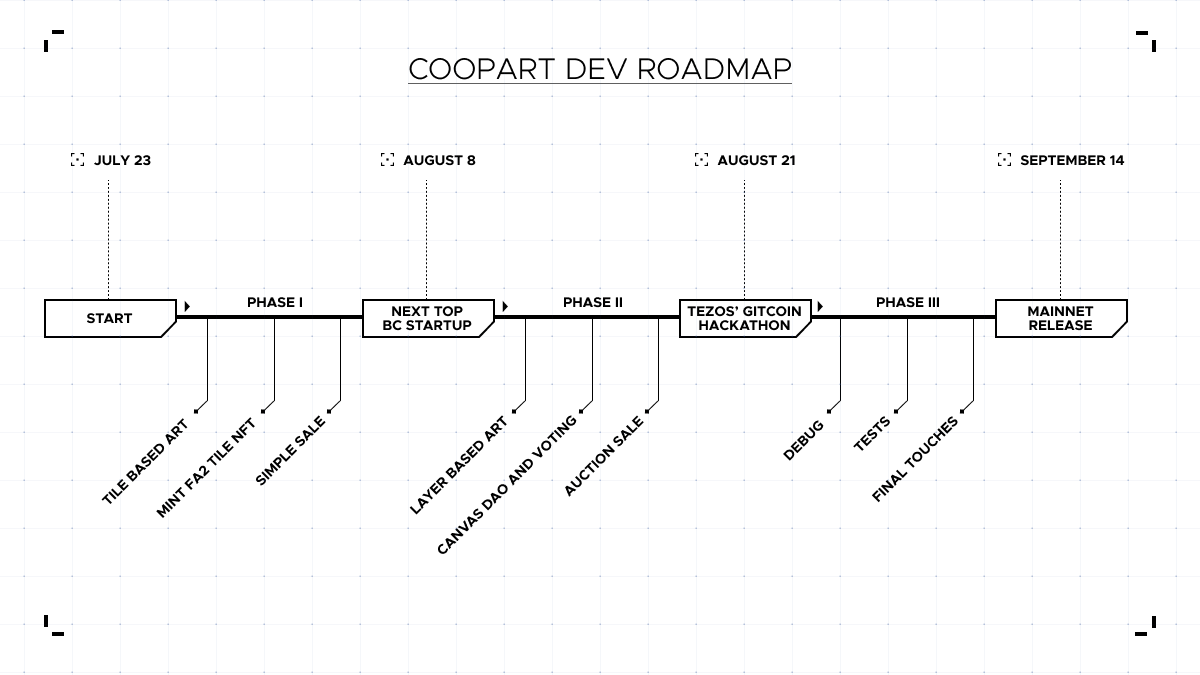
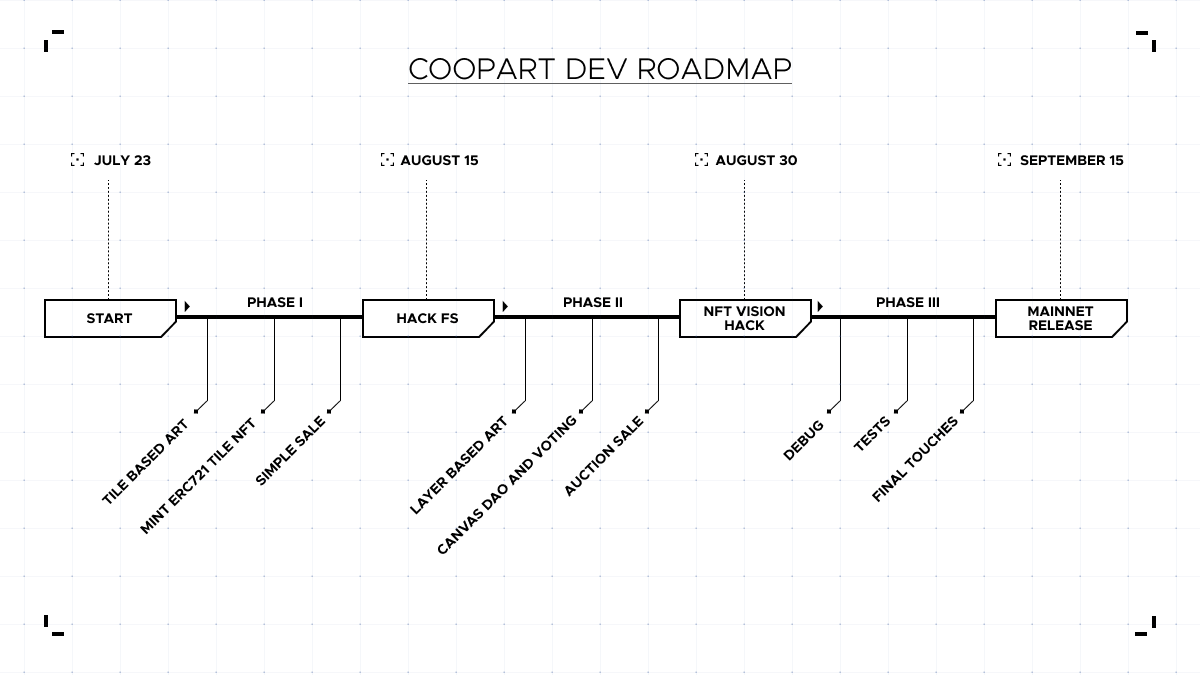
Mint examples

diff --git a/src/contracts/scripts/mintExamples.js b/src/contracts/scripts/mintExamples.js
@@ -1,8 +1,29 @@
 const hre = require("hardhat");
 
-import nfts from './nfts'
-
 const contractAddress = `0xaa71521B33f97CF7466519025BC6d60F55B9dD44`
+
+const tokenUris = [
+//horse
+// 'ipfs://QmWsM6Xa6DCfS2MvvMNdAwPMuY8iBmJ66NTHoyLVdGC4RR',
+// 'ipfs://QmVZZHjGUKZLXbr6FrVXoqPpju9P1RR4rnZEtrv8ZGpagL',
+// 'ipfs://QmavnC9Q3TLUYGxXgr2yBiBL88pzGyRcr9QixJiAR4kdJ2',
+//rage
+'ipfs://QmYqWC1DaxFnRFDmBnvjUXRH69pyknS9N1j8Krd6ZxkgEQ',
+'ipfs://QmbE4i2efrK8dEJ5tY9CRS2L6irpjJE68b3rme9p6yPZcg',
+'ipfs://QmWYujjetgxNrqKJV3ezt7TGCiBz8UkTvFn7YEJs9Eotjr',
+'ipfs://QmWECYF6qa8nWoDYrZ8nv2AbWKPiMUzRX3A4gPzPSg67Qt',
+'ipfs://QmUmZ238hS527phJGh14VTi9mE6kJMXHk7uJHn8fNYe7zs',
+'ipfs://QmPynaeabVtRsEYKyirgQajg5tNnLDjFPf1qJzVtiDrctN',
+'ipfs://QmWj1HDMgeTBxqJe1gYcyQJDgxisopLyqYK7KSb4Wuyp9b',
+// 'ipfs://QmTc2cGt1fCQktqrtKJwLGZtqgCFFAJu4x5TLy7L7A6qFV',
+//comic
+'ipfs://Qmf6VuVFVR9ZErWBDVYRAhXSsNBT2Nh46mcxKh3eHNqM8D',
+'ipfs://Qmf6VuVFVR9ZErWBDVYRAhXSsNBT2Nh46mcxKh3eHNqM8D',
+'ipfs://QmYroeNndoo1N48s55Yq19HD6tECncCDtMWhnTEB3Xq9Vf',
+'ipfs://QmdQNBdG7vMpkp47Ewi86ZCBxrobL6vxEP8zy6JWshfLLg',
+'ipfs://QmQF2iBHSx4enxUEJRiAaHxJCVQn46SgB5qzfcSRTWg5ih',
+'ipfs://QmQF2iBHSx4enxUEJRiAaHxJCVQn46SgB5qzfcSRTWg5ih'
+]
 
 //takes array of thunks
 //thunks are functions that return promises
@@ -17,18 +38,18 @@ function mapSeries(arr) {
   .then(() => results)
 }
 
-function thunkify(nft) {
+function thunkify(tokenUri) {
   return async () => {
     const [owner] = await hre.ethers.getSigners();
     const NFTContract = await hre.ethers.getContractAt("MyNFT", contractAddress);
-    const tx = await NFTContract.mint(owner.address, nft.cid);
+    const tx = await NFTContract.mint(owner.address, tokenUri);
     const receipt = await tx.wait();
-    console.log('Transaction mined: ', nft.name);
+    console.log('Transaction mined: ', tokenUri);
   }
 }
 
 async function main() {
-  const thunks = nfts.map((nft) => thunkify(nft))
+  const thunks = tokenUris.map((tokenUri) => thunkify(tokenUri))
   await mapSeries(thunks); //do the transactions serially to avoid `replacement fee too low` error
 }
 

diff --git a/src/frontend/src/pages/EditTiles/EditTiles.view.tsx b/src/frontend/src/pages/EditTiles/EditTiles.view.tsx
@@ -122,11 +122,14 @@ export const EditTilesView = ({
         tileWidth,
         tileHeight,
       }
+
       const uploadedJson = await client.add(Buffer.from(JSON.stringify(json)))
 
       const image = `https://ipfs.infura.io/ipfs/${uploadedImage.path}`
 
-      console.log('tokenUri', `https://ipfs.infura.io/ipfs/${uploadedJson.path}`)
+      const tokenUri = `ipfs://${uploadedJson.path}`
+
+      console.log('tokenUri', tokenUri)
 
       // const metadata = await client.store({
       //   name: 'Coopart Tile',
@@ -150,30 +153,25 @@ export const EditTilesView = ({
       setTiles([...newTiles.concat(tile), ...existingTiles])
 
       // Mint token
-      if (mintTransactionPending) {
-        alert.info('Cannot mint a new tile while the previous one is not minted...', { timeout: 10000 })
-      } else {
-        console.log(tile)
-        mintCallback({ tokenUri: uploadedJson.path })
-          .then((e) => {
-            setMintTransactionPendingCallback(true)
-            alert.info('Minting new tile...')
-            e.wait().then((e: any) => {
-              console.log('New tile minted')
-              alert.success('New tile minted', {
-                onOpen: () => {
-                  setMintTransactionPendingCallback(false)
-                },
-              })
-              return e
+      mintCallback({ tokenUri })
+        .then((e) => {
+          setMintTransactionPendingCallback(true)
+          alert.info('Minting new tile...')
+          e.wait().then((e: any) => {
+            console.log('New tile minted')
+            alert.success('New tile minted', {
+              onOpen: () => {
+                setMintTransactionPendingCallback(false)
+              },
             })
             return e
           })
-          .catch((e: any) => {
-            alert.show(e.message)
-            console.error(e)
-          })
-      }
+          return e
+        })
+        .catch((e: any) => {
+          alert.show(e.message)
+          console.error(e)
+        })
 
       setIsUploading(false)
     } catch (error) {

diff --git a/src/frontend/src/pages/EditTiles/EditTiles.controller.tsx b/src/frontend/src/pages/EditTiles/EditTiles.controller.tsx
@@ -48,7 +48,7 @@ export const EditTiles = ({ setMintTransactionPendingCallback, mintTransactionPe
       if (data.data && data.data.tokens && data.data.tokens.length > 0) {
         const existingTilesToShow = await Promise.all(
           data.data.tokens.map(async (token: { id: string; uri: string }) => {
-            const tokenData = await axios.get(`https://ipfs.infura.io/ipfs/${token.uri}`)
+            const tokenData = await axios.get(`https://ipfs.infura.io/ipfs/${token.uri.replace('ipfs://', '')}`)
 
             console.log(`https://ipfs.infura.io/ipfs/${tokenData.data.image.replace('ipfs://', '')}`)
 

diff --git a/src/frontend/src/pages/Marketplace/Marketplace.view.tsx b/src/frontend/src/pages/Marketplace/Marketplace.view.tsx
@@ -40,10 +40,12 @@ export const MarketplaceView = ({ tiles }: MarketplaceViewProps) => {
 
           console.log(tilesInCanvas)
 
+          const scale = Math.min(270 / (canvasWidth * tileWidth || 1), 200 / (canvasHeight * tileHeight || 1))
+
           return (
             <MarketplaceCanvas>
               <MarketplaceCanvasTiles>
-                <MarketplaceCanvasTileScaler scale={270 / (canvasWidth * tileWidth || 1)}>
+                <MarketplaceCanvasTileScaler scale={scale}>
                   {
                     //@ts-ignore
                     Array.apply(null, { length: canvasHeight })

diff --git a/src/frontend/src/pages/Marketplace/Marketplace.controller.tsx b/src/frontend/src/pages/Marketplace/Marketplace.controller.tsx
@@ -35,7 +35,7 @@ export const Marketplace = ({ transactionPending }: MarketplaceProps) => {
       if (data.data && data.data.tokens && data.data.tokens.length > 0) {
         const tilesToShow = await Promise.all(
           data.data.tokens.map(async (token: { id: string; uri: string }) => {
-            const tokenData = await axios.get(`https://ipfs.infura.io/ipfs/${token.uri}`)
+            const tokenData = await axios.get(`https://ipfs.infura.io/ipfs/${token.uri.replace('ipfs://', '')}`)
 
             console.log(`https://ipfs.infura.io/ipfs/${tokenData.data.image.replace('ipfs://', '')}`)
 

diff --git a/README.md b/README.md
@@ -14,23 +14,23 @@ I first got the idea to create Coopart from looking at the [$69 million Beeple's
 
 ### Getting started
 
-The platform is live at [coopart.io](https://coopart.io) and running on the _Tezos Florence Testnet_. I'm a big fan of Tezos and have contributed to many projects. I coded the smart contract in [CameLigo](https://ligolang.org/docs/intro/introduction/) and integrated the frontend with the [Temple wallet](https://templewallet.com/). Before trying out the platform, make sure you have a funded account on the _Florence Testnet_. You can easily get a faucet account at [faucet.tzalpha.net](https://faucet.tzalpha.net/). Click _Get Testnet Tez_ then download the faucet file. In _Temple_, click _Import Account_ then _Faucet File_. You should see your account appear. Make sure to select the _Florence Testnet_ and that you have at least 1 Tez. If your faucet account does not have enough Tez, email me your public address at [coopart@protonmail.com](mailto:coopart@protonmail.com) and I will send you some Tez on _Florence_. 
+The platform is live at [coop.art](https://coop.art) and running on the _Matic Mumbai Testnet_. I coded the smart contract in Solidity and integrated the frontend with IPFS for token metadata upload and storage. Before trying out the platform, make sure you have a funded account on the _Mumbai Testnet_. You can use the Matic faucet at [faucet.matic.network](https://faucet.matic.network/). 
 
-Now, on Coopart, click _Connect wallet_ and Temple will open to ask you for authorization. Your Tezos address should then appear in the top right corner.
+Now, on Coopart, click _Connect wallet_ and Metamask will open to ask you for authorization. Your Eth address should then appear in the top right corner.
 
 ### Create a new canvas
 
 You are now ready to create a new canvas or contribute to the existing canvases. Let's start by clicking _Create New Canvas_. You can see an empty tile and a few options. First, choose a tile size. Note that all tiles in a canvas will have the same size, even for other contributors. Let's choose 130 pixels by 340 pixels. You can also select the time period for other artists to contribute to the canvas. Let's choose 3 days. After that, the canvas will automatically lock and be put on sale, meaning that no more contribution will be possible.
 
-Now hover your mouse over the tile to see its coordinates and an upload button. You can click the arrows to expand the canvas on the right side, left side, top side or bottom side. There is no limit to the canvas size, this could technically scale to millions of tiles. Let's upload a first tile at coordinates (0,0). This not mandatory, you could start at (-1, 2) if you wanted to. Click _Upload_ and choose an image file. Wait while the tile is uploading. Note that I am using **IPFS** with _Infura_ to store the images, so it is fully decentralized and tile owners can be reassured that their art is stored safely forever.
+Now hover your mouse over the tile to see its coordinates and an upload button. You can click the arrows to expand the canvas on the right side, left side, top side or bottom side. There is no limit to the canvas size, this could technically scale to millions of tiles. Let's upload a first tile at coordinates (0,0). This not mandatory, you could start at (-1, 2) if you wanted to. Click _Upload_ and choose an image file. Wait while the tile is uploading. I am using **IPFS** with _Infura_ to store the NFT images and metadata, so it is fully decentralized and tile owners can be reassured that their art is stored safely forever.
 
-Once the image is uploaded, it appears in the tile you chose. Then a Tezos transaction to mint the tile is automatically started. I am using the **FA2 Token Standard** in the smart contract to store the tiles as NFTs and comply with transfer and storage conventions. This makes Coopart compatible with all wallets, exchanges, DeFi dapps, etc. on Tezos. For beginners, FA2 is basically the Tezos equivalent of ERC721.
+Once the image is uploaded, it appears in the tile you chose. Then a Polygon transaction to mint the tile is automatically started. I am using the **ERC 721 Token Standard** in the smart contract to store the tiles as NFTs and comply with transfer and storage conventions. This makes Coopart compatible with all wallets, exchanges, DeFi dapps, etc. on Polygon.
 
-Click confirm to start the minting transaction. A notification in the top right corner tells you that the transaction has been sent. Wait a few seconds, and another notification will tell you that the tile has been minted. You can check out [TzStats](https://florence.tzstats.com/KT1Q5ynszvFncBQBhucnXwvwPKeHPZsLW29u) to confirm that the transaction is indeed successful. This canvas is now officially started. You can add more tiles yourself or wait for others to contribute. 
+Click confirm to start the minting transaction. A notification in the top right corner tells you that the transaction has been sent. Wait a few seconds, and another notification will tell you that the tile has been minted. You can check out [PolygonScan](https://mumbai.polygonscan.com/address/0xaa71521b33f97cf7466519025bc6d60f55b9dd44) to confirm that the transaction is indeed successful. This canvas is now officially started. You can add more tiles yourself or wait for others to contribute. 
 
 ### Contribute to existing canvas
 
-Let's now log with another Tezos account by clicking the address in the top right corner to simulate another user. Click _Marketplace_ and wait a few seconds for all canvas and tiles to load from the smart-contract's storage. Here you can see on-going canvases that still have time left in their contribution period and canvases that have expired and have automatically been put on sale. You can see the canvas we just created with one tile. Let's click it. The tile editor opens and fetches the tiles from the smart contract. Wait until the loading status in the top right corner disappears. Let me now expand the canvas on the right side with two new tiles. I'm going to upload an image for the first tile and ming the token. And let me do the same for the second tile. I am now done contributing. If I reload the marketplace, I can see that the canvas does display my new tiles.
+Let's now refresh the page and connect with another Eth account to simulate another user. Click _Marketplace_ and wait a few seconds for all canvas and tiles to load from the smart-contract's storage. Here you can see on-going canvases that still have time left in their contribution period and canvases that have expired and have automatically been put on sale. You can see the canvas we just created with one tile. Let's click it. The tile editor opens and fetches the tiles from the smart contract. Wait until the loading status in the top right corner disappears. Let me now expand the canvas on the right side with two new tiles. I'm going to upload an image for the first tile and ming the token. And let me do the same for the second tile. I am now done contributing. If I reload the marketplace, I can see that the canvas does display my new tiles.
 
 ### Vote on tiles
 
@@ -38,57 +38,39 @@ Now, what if someone ruins a canvas with an inappropriate tile? That's where vot
 
 - First possibility: Only tile contributors can vote on other tiles. Each tile contributor can cast one vote per tile (upvote or downvote). If a tile has more downvotes than upvotes, it gets removed.
 
-- Second possibility: Anyone can vote. This gives potential buyers a way to direct the devolpment of a canvas that they might want to buy. People vote by delegating Tez to a tile. The more Tez, the more the vote count. If a tile has more Tez for downvotes than upvotes, it gets removed. On the contrary, people liking a canvas can delegate a lot of Tez to the tiles they like. The delegation also proves that the potential buyers have enough tez to buy the canvas later.
+- Second possibility: Anyone can vote. This gives potential buyers a way to direct the development of a canvas that they might want to buy. People vote by delegating MATIC to a tile. The more MATIC, the more the vote count. If a tile has more MATIC for downvotes than upvotes, it gets removed. On the contrary, people liking a canvas can delegate a lot of MATIC to the tiles they like. The delegation also proves that the potential buyers have enough MATIC to buy the canvas later.
 
 Let me know your opinion about this. I'm also open to other suggestions.
 
 ### Buy/Sell canvas
 
-Once the contribution period of a canvas expires, no one can contribute to it anymore, and it is automatically put on sale in the marketplace. For now, I've only implemented a simple fixed price sale at 1 Tez as a proof of concept. I will develop a more robust auction sale system in phase II (more in the roadmap). You can click _Buy Canvas_ and submit the transaction. After a few seconds, all the tiles from the canvas will appear in your wallet. I had first created an entrypoint that would merge all the tiles into a single FA2 token for the whole canvas, but then I thought that keeping tiles separated might allow owners to sell them separately and create a sense of collection. Buyers would then try to buy all tiles to complete their collection and reconstitute the whole canvas. This would increase the value of a single tile to a collector that already has all of them except that one. Just like the _Infinity Stones_ in _The Avengers_, you just need to have them all! 
+Once the contribution period of a canvas expires, no one can contribute to it anymore, and it is automatically put on sale in the marketplace. For now, I've only implemented a simple fixed price sale at 1 MATIC as a proof of concept. I will develop a more robust auction sale system in phase II (more in the roadmap). You can click _Buy Canvas_ and submit the transaction. After a few seconds, all the tiles from the canvas will appear in your wallet. I had first created an entrypoint that would merge all the tiles into a single FA2 token for the whole canvas, but then I thought that keeping tiles separated might allow owners to sell them separately and create a sense of collection. Buyers would then try to buy all tiles to complete their collection and reconstitute the whole canvas. This would increase the value of a single tile to a collector that already has all of them except that one. Just like the _Infinity Stones_ in _The Avengers_, you just need to have them all! 
 
 I am not yet fully decided on the way to go. This is still a concept that I am still playing around with. 
 
-Anyway, when a canvas is purchased, all the tile creators (except those that were voted out) are paid according to the number of tiles they contributed. E.g., if a canvas has 10 tiles and is sold for 1 Tez, each tile creator will receive 0.1 Tez. If someone contributed 2 tiles to that canvas, he would receive 0.2 Tez.
+Anyway, when a canvas is purchased, all the tile creators (except those that were voted out) are paid according to the number of tiles they contributed. E.g., if a canvas has 10 tiles and is sold for 1 MATIC, each tile creator will receive 0.1 MATIC. If someone contributed 2 tiles to that canvas, he would receive 0.2 MATIC.
 
 ## Dev roadmap
-It's been a wild journey since I started working on this project only three weeks ago! It is such a complex platform that I could not develop everything by the end of this hackathon, so I have divided its development into 3 phases. The first phase is the current proof of concept that you see. It has a functional tile creator and editor with a smart contract that can mint tiles into FA2 tokens. Anyone can contribute new tiles. Canvases can then be sold for 1 Tez in the marketplace.
+It's been a wild journey since I started working on this project only three weeks ago! It is such a complex platform that I could not develop everything by the end of this hackathon, so I have divided its development into 3 phases. The first phase is the current proof of concept that you see. It has a functional tile creator and editor with a smart contract that can mint tiles into FA2 tokens. Anyone can contribute new tiles. Canvases can then be sold for 1 MATIC in the marketplace.
 
 Phase II will include the canvas DAO and voting system discussed previously. It will also have auction sales for canvases. Finally, I also plan to add a second form of cooperative art development: **layer-based** instead of tile-based. Here is an example. This image could be a first layer from an artist. Then another artist could add a mostly transparent layer but with a triangle in the middle. Then someone could add a layer with a grid, a layer with rocks, a layer with a person, and so on. Layers could also be voted in or out of a canvas.
 
-Phase II should be finished on August 23rd as I plan to submit it to the upcoming [Gitcoin's Tezos Hackathon](https://gitcoin.co/issue/tezos-contrib/gitcoin-submissions/1/100026121)
+Phase II should be finished on August 30th as I plan to submit it to the upcoming [NFT Vision Hackathon](https://nftvisionhack.com/)
 
-Finally, phase III will be mostly bug fixing and many tests before deploying the smart contract on the Tezos mainnet in September.
+Finally, phase III will be mostly bug fixing and many tests before deploying the smart contract on the Polygon mainnet in September.
 
-![](https://coopart.io/images/roadmap.png)
+![](https://coop.art/images/roadmap.png)
 
-## Smart contract interaction
+## How It's Made
+- The frontend is made with React. The tile creator/editor is a 100% custom component that took me many days to code.
+  
+- The smart contracts are made in Solidity using modified ERC 721 contracts from Open Zeppelin.
 
-Here is a summary of the interactions between the frontend and the smart contract. Note that the `merge()` entrypoint is still under consideration.
+- I built and deployed a custom subgraph at https://thegraph.com/studio/subgraph/coopart/ to query data from the frontend.
 
-![](https://coopart.io/images/interactions.png)
+- I deployed the smart contract on the Polygon Mumbai Tesnet.
 
-## Run locally
-
-The Github repo for Coopart is private. You can find Github credentials to access it in the uploaded file in _Additional info for judges and organizers_. Alternatively; or if you are still having issues accessing the repo; email me your Github username at [coopart@protonmail.com](mailto:coopart@protonmail.com), and I will add you as contributor. 
-
-Once you have access to the repo, you can run the frontend locally using:
-```
-$ cd src/frontend
-$ yarn install
-$ yarn start
-```
-
-If you want to redeploy the smart contracts:
-```
-$ cd src/contracts
-$ yarn global add truffle@5.4.0-tezos.7
-$ truffle compile
-$ truffle migrate --network florencenet
-```
-
-_Make sure to use truffle@5.4.0-tezos.7 as the latest version 5.5.0-tezos.4 does not work correctly._
-
-Copy the contract address, e.g., _KT1SS5CMP6wfqt63jtwzisb22QgpRq13b77W_ and paste it into COOPART_ADDRESS in `dapp/defaults.ts`. Restart the frontend to now use this smart contract address.
+- I am using IPFS to store the tile images and token metadata. I first used [nft.storage](https://nft.storage/) but for some reason, uploading was very slow so I instead coded my own NFT metadata uploader using [ipfs-http-client](https://www.npmjs.com/package/ipfs-http-client) with the [infura](https://infura.io/docs/ipfs) gateway, leading to much faster uploads.
 
 ## Conclusion
 
